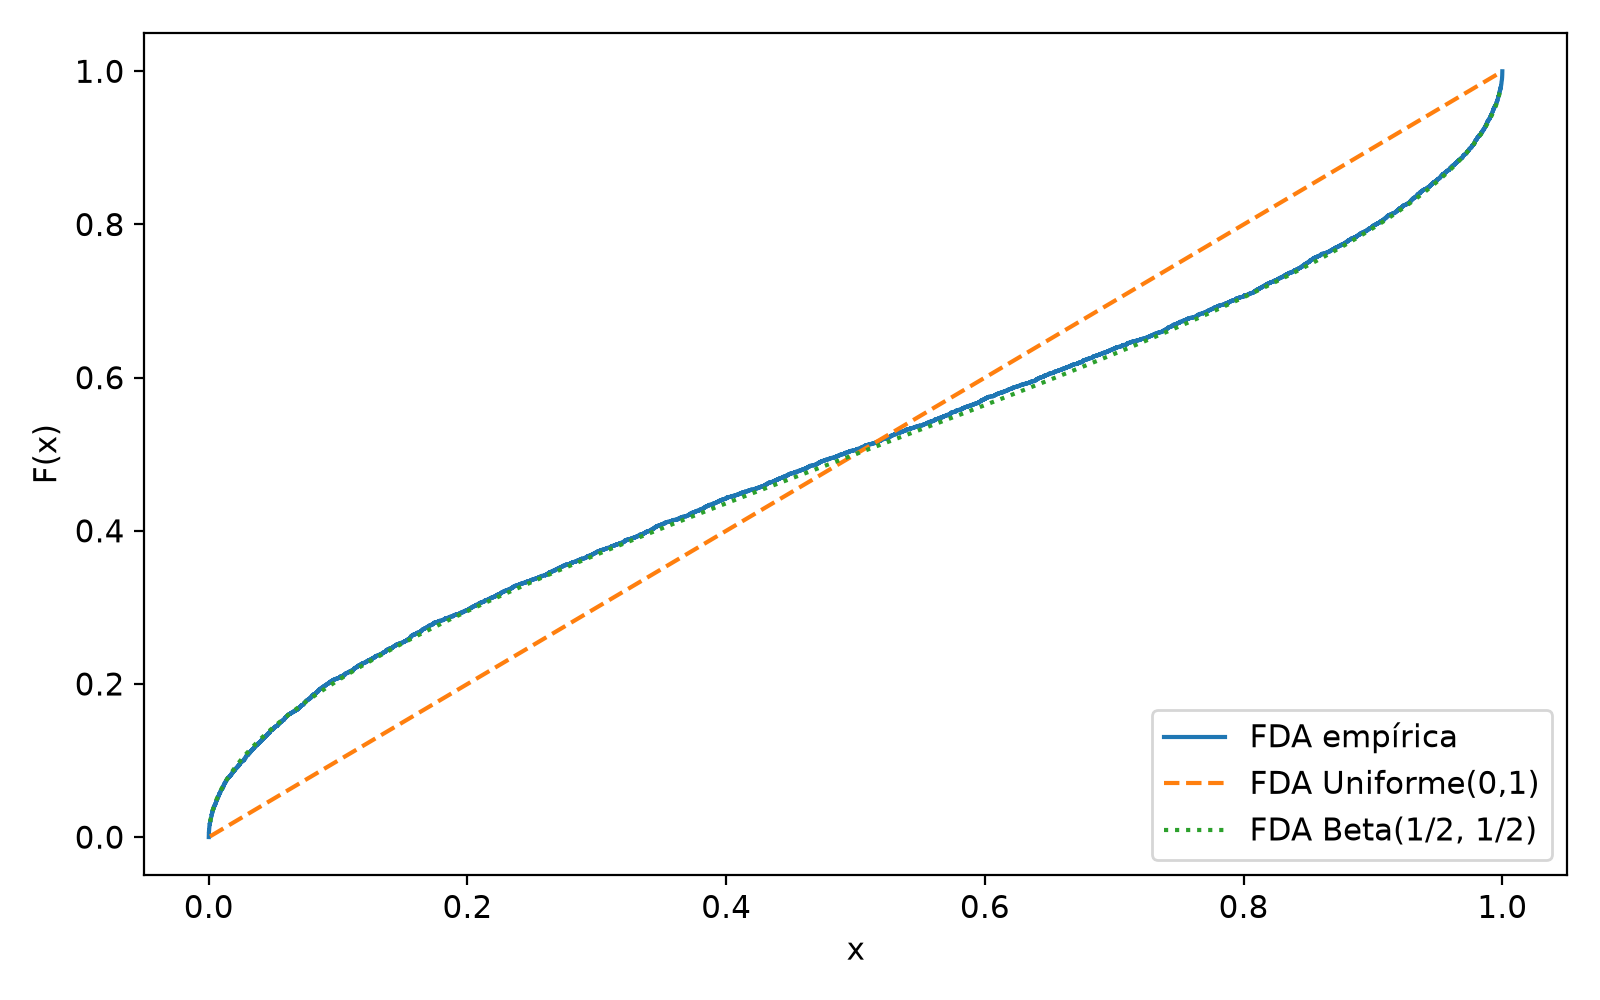
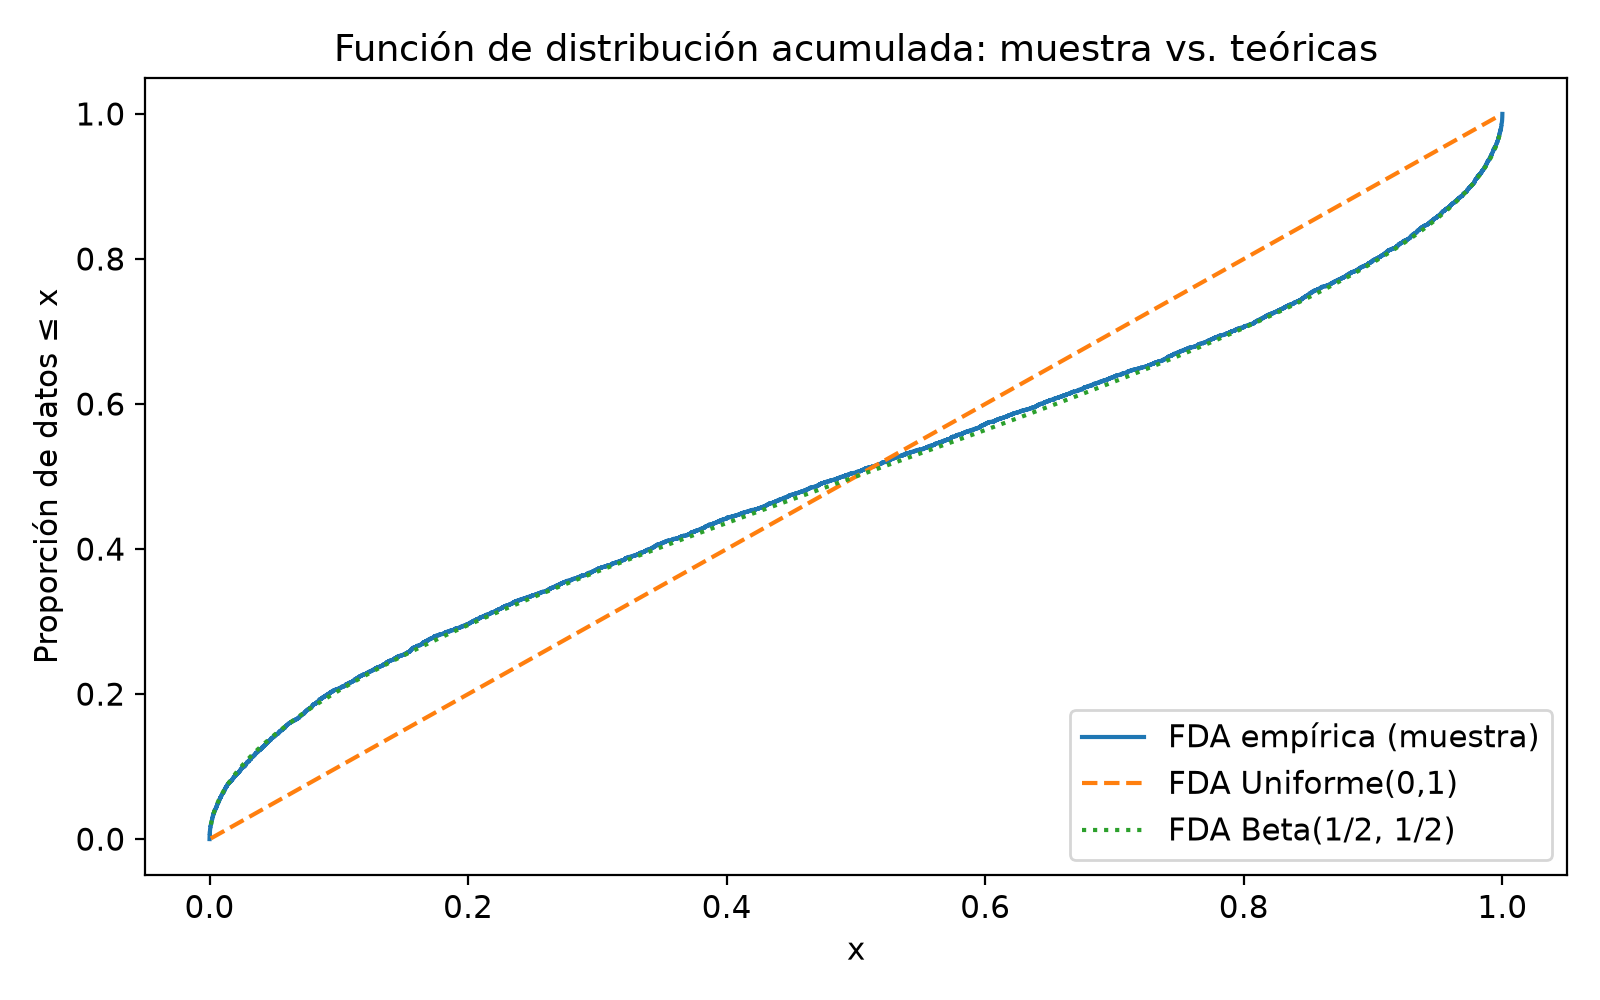
Parte 3: titulos, etiquetas y decision del KS

diff --git a/parte3_distribucion.py b/parte3_distribucion.py
@@ -1,5 +1,3 @@
-"""Parte 3 — Distribución de x_1000 (3.1 y 3.2)."""
-
 import matplotlib.pyplot as plt
 import numpy as np
 from scipy import stats
